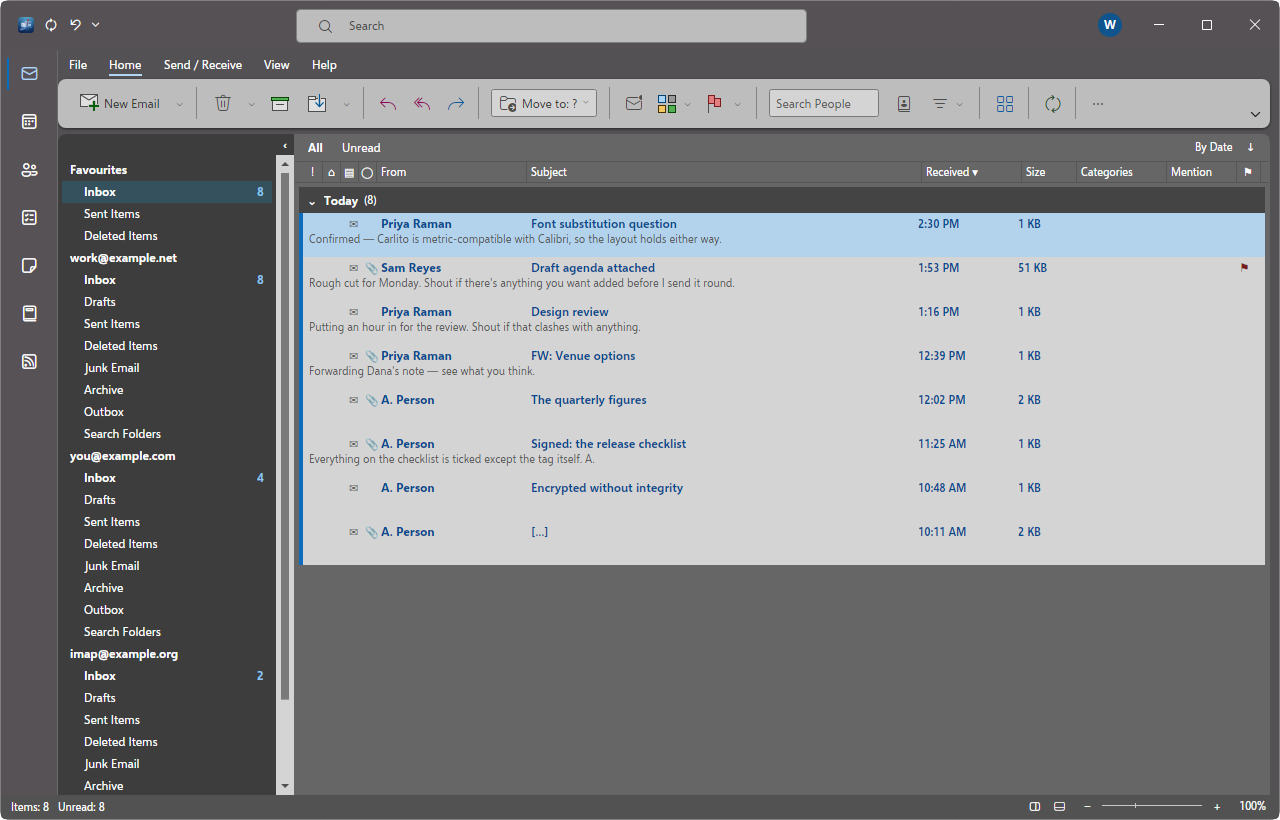
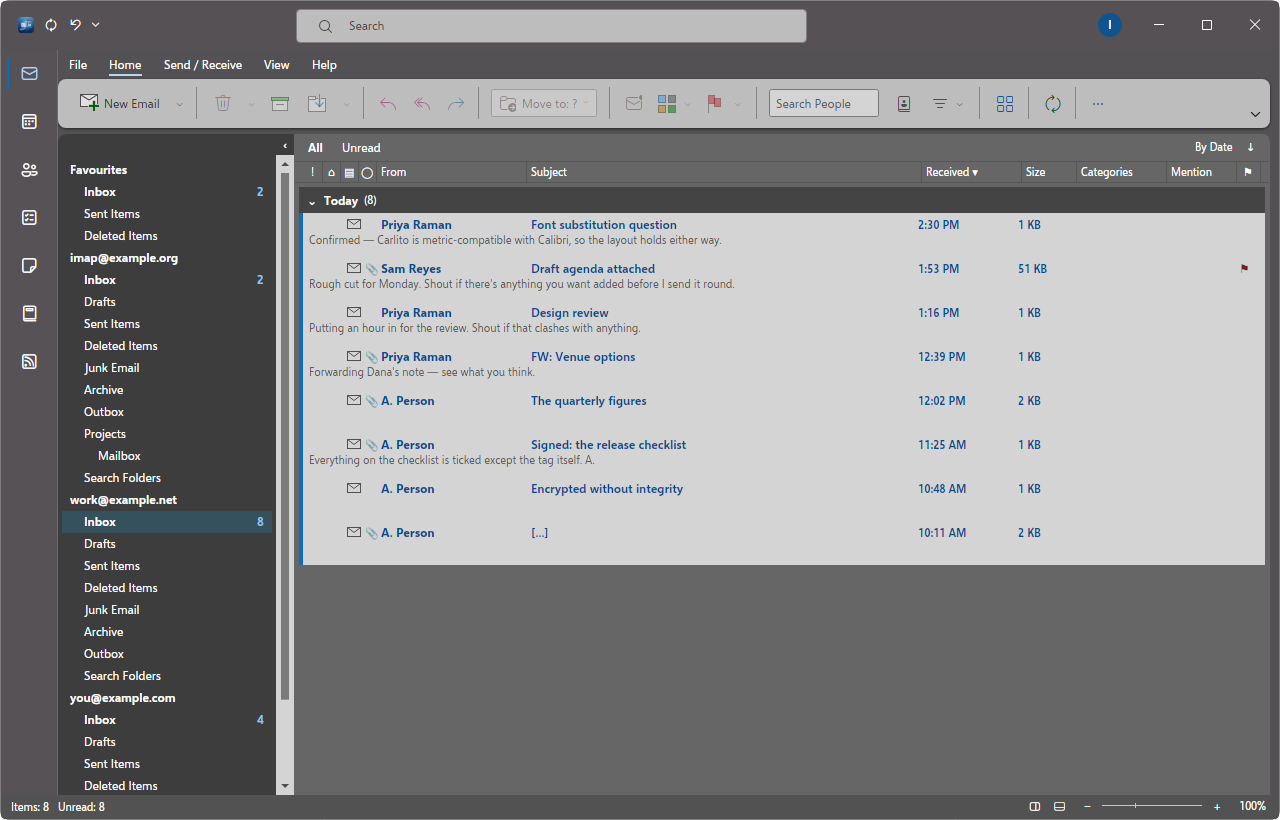
The docs screenshots catch up with the chrome, and the last borrowed shorthand is written out
The eight gallery screenshots are regenerated together — same seeded
store, same pinned day, reading pane off — picking up the Icon column's
drawn envelope, the Backstage starting below the title bar, and the
selection that dims when the focus is elsewhere.

A few comments still leaned on numbered rules from a private checklist;
they now say the rule itself.

diff --git a/src/Mailbox.App/Views/MainWindow.axaml.cs b/src/Mailbox.App/Views/MainWindow.axaml.cs
@@ -4743,8 +4743,8 @@ public partial class MainWindow : Window
         Log.Info($"Harness: the toolbar's chevron is {chevron.Bounds.Width:0}x{chevron.Bounds.Height:0}, "
             + $"visible={chevron.IsEffectivelyVisible}, enabled={chevron.IsEffectivelyEnabled}.");
 
-        // Really opened, so the presenter has a size: rule 6 of the audit's evidence says a
-        // popup's size is the claim and IsOpen alone proves nothing. Filled directly if the
+        // Really opened, so the presenter has a size: a popup's size is the claim, and IsOpen
+        // alone proves nothing. Filled directly if the
         // presenter refuses to come up — an offscreen window still has to answer what the menu
         // holds, and a run that measured nothing would read as a toolbar with no editor.
         // Through the button's own Click first, which is what a reader does and what opens an
@@ -4757,8 +4757,8 @@ public partial class MainWindow : Window
         Log.Info($"Harness: the toolbar holds {customization.Commands.Count}: "
             + string.Join(" | ", customization.Commands.Select(c => c.Value)));
 
-        // Measured twice on purpose. This menu fills itself from its own Opening event, and rule
-        // 6 of the audit's evidence says such a menu measures empty when it is read in the same
+        // Measured twice on purpose. This menu fills itself from its own Opening event, and
+        // such a menu measures empty when it is read in the same
         // pass that opened it — the entries exist but are not yet in the popup's visual tree, so
         // there is nothing to take a size from. The second reading, a dispatcher turn later, is
         // the one that says whether a presenter really came up.

diff --git a/src/Mailbox.App/Views/MainWindow.Phase12BPose.cs b/src/Mailbox.App/Views/MainWindow.Phase12BPose.cs
@@ -35,8 +35,8 @@ namespace Mailbox.App.Views;
 /// <c>ToggleButton</c>s on a rendered options page.
 /// </para>
 /// <para>
-/// Both doors run the whole flow inside one process for the reason rule 2 of the audit's evidence
-/// gives: a capture run's settings are a scratch copy, so two runs are two first runs and no
+/// Both doors run the whole flow inside one process for the reason the harness's own rules
+/// give: a capture run's settings are a scratch copy, so two runs are two first runs and no
 /// cross-run persistence claim can be made through two of them.
 /// </para>
 /// </remarks>
@@ -460,8 +460,8 @@ public partial class MainWindow
 
     /// <summary>Opens a menu button's flyout and presses one of its entries.</summary>
     /// <remarks>
-    /// Reset and Import/Export are menus rather than buttons, and the evidence rules here say a
-    /// menu's size is part of the claim — so the presenter is measured before an entry is
+    /// Reset and Import/Export are menus rather than buttons, and a popup's size is part of the
+    /// claim — so the presenter is measured before an entry is
     /// pressed, which is how two flyouts that presented nothing at all were once caught.
     /// </remarks>
     private static async Task PressMenuButtonAsync(OptionsWindow options, string arg)

diff --git a/src/Mailbox.App/Views/MainWindow.Phase12APose.cs b/src/Mailbox.App/Views/MainWindow.Phase12APose.cs
@@ -228,7 +228,7 @@ internal static class OptionsPageAudit
 /// directions are readable: the publisher's own request log says whether the fetch happened, and
 /// the pane's inlined count says whether the picture arrived.
 /// <para>
-/// <b>And why the switches are logged.</b> Rule 2 of the audit's evidence: a capture run's
+/// <b>And why the switches are logged.</b> The harness's own rule: a capture run's
 /// settings are a scratch copy, so what a run was posed with cannot be read out of the settings
 /// file afterwards. The line below is that read-back — what this process believes, printed from
 /// the same properties the behaviour asks.
